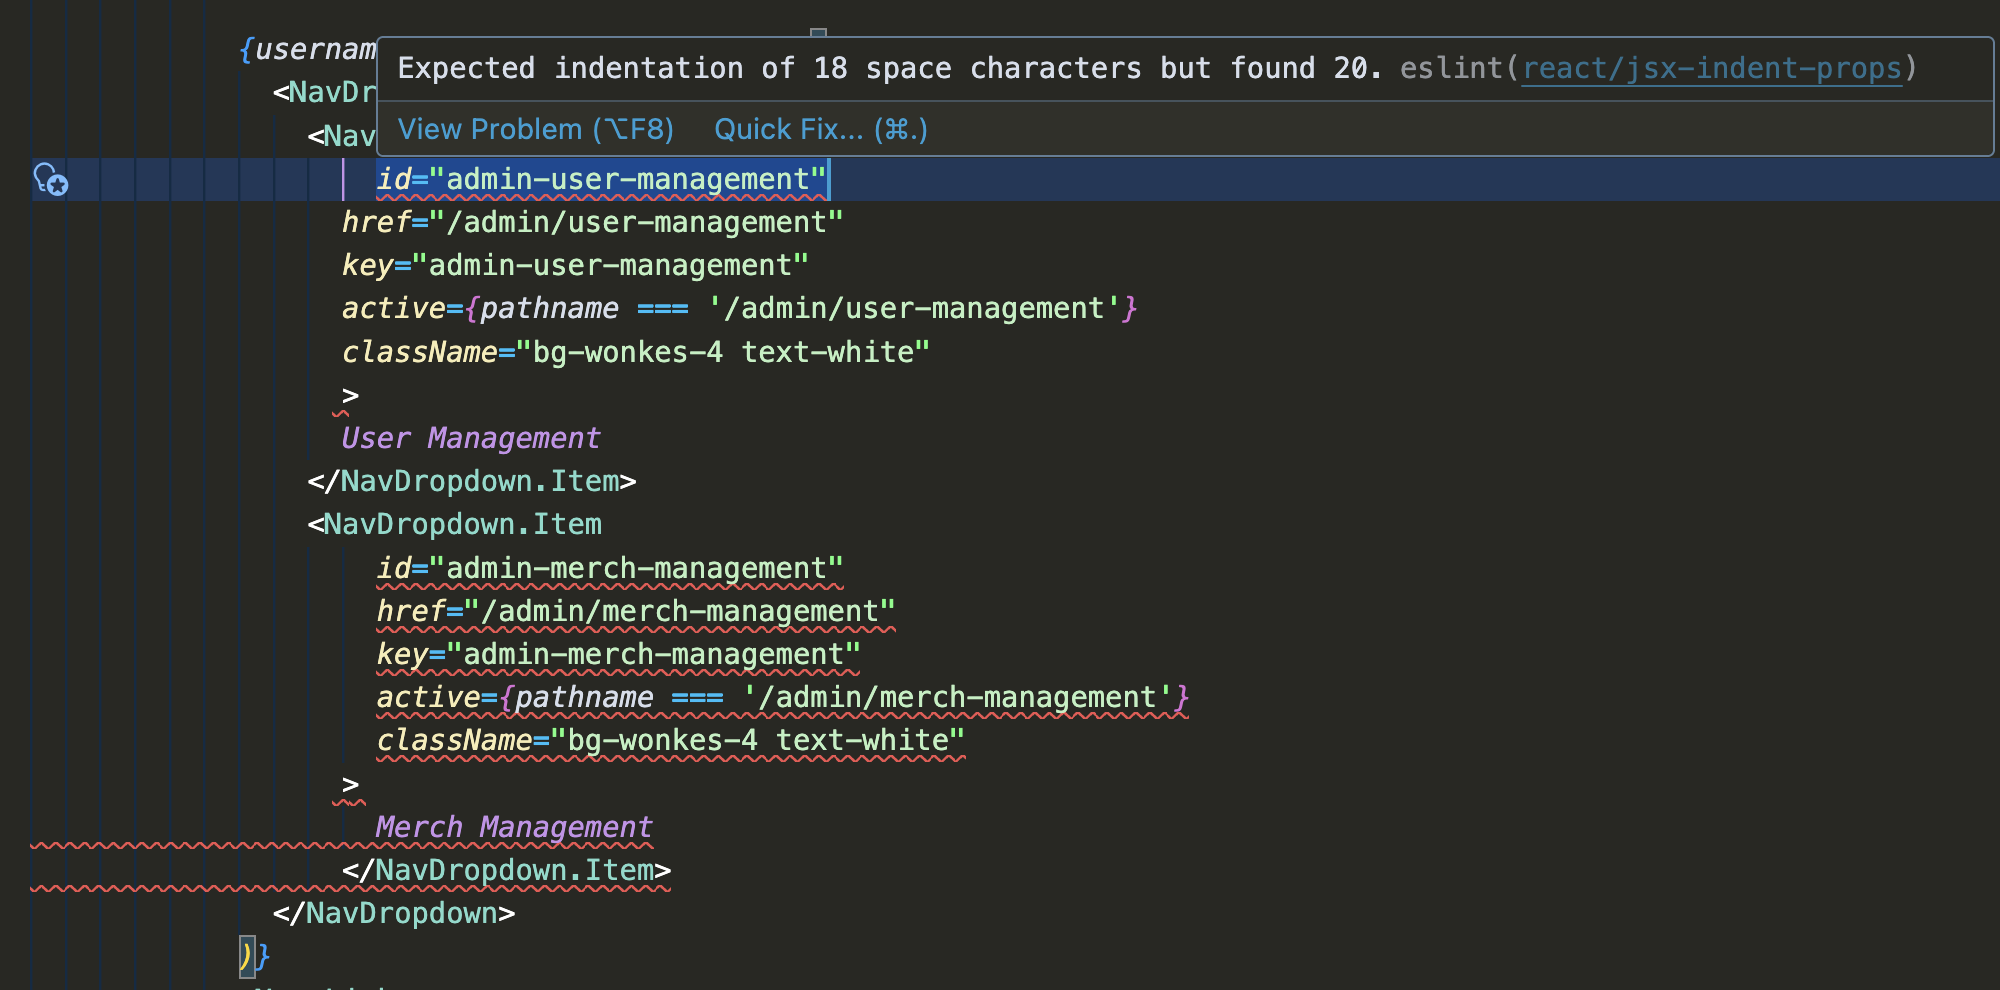
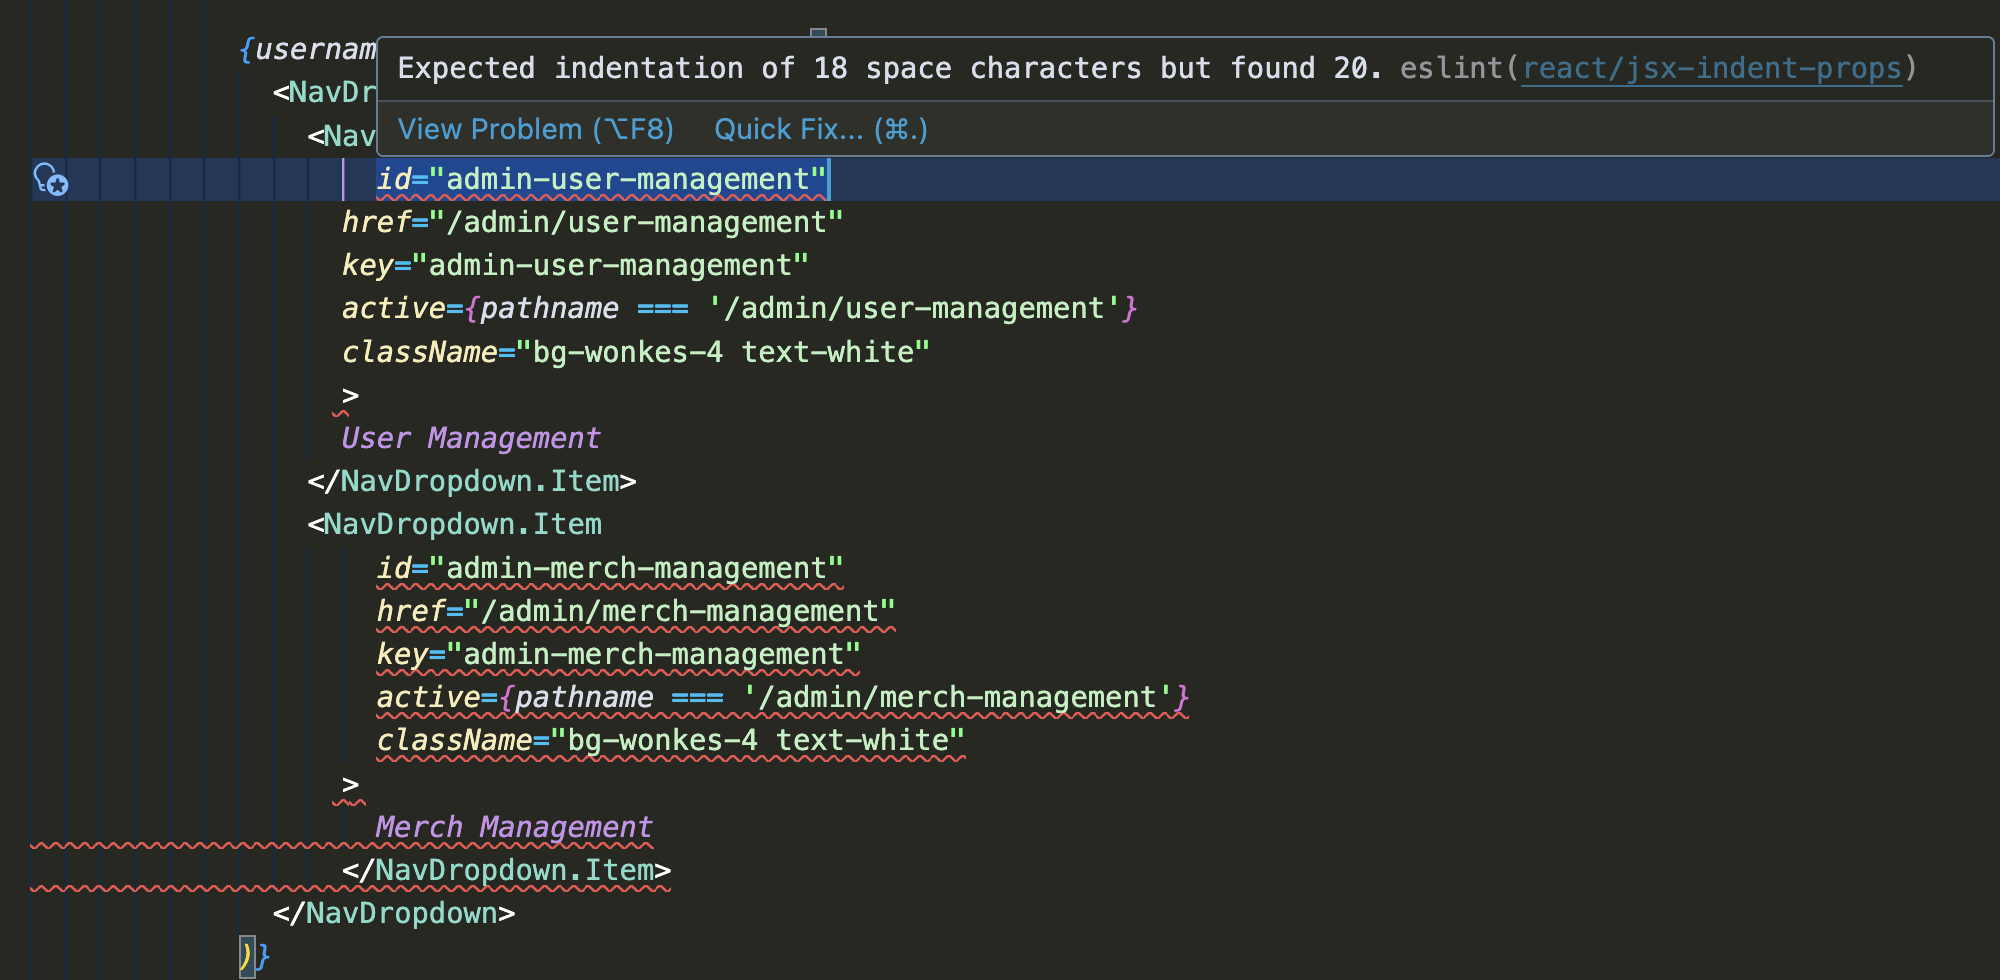
Essay update
Revised the essay "A Newcomer's Interpretation on Software Engineering."

diff --git a/essays/software-engineering.md b/essays/software-engineering.md
@@ -12,8 +12,6 @@ labels:
   - Coding Standard
 ---
 
-# A Newcomer's Interpretation on Software Engineering
-
 ## What is software engineering?
 
 If you split the phrase "software engineering" and look each up in a dictionary, then the definition for "software" is a program used by computer and "engineering" is a science and technology involving designing, building, and using engines, machines, and structures. Combining the two definitions, software engineering is a science involving designing, building, and using programs used by computers.
